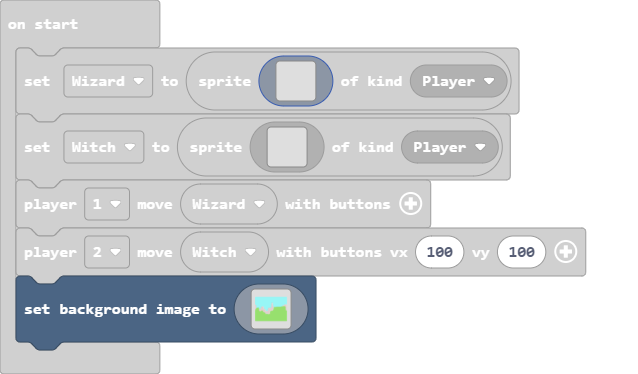
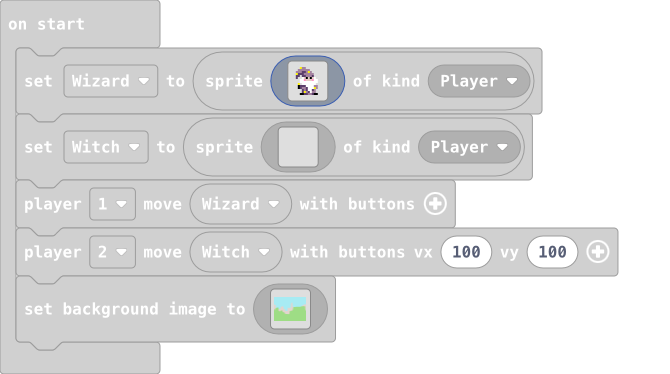
Update main.blocks, main.ts

diff --git a/main.ts b/main.ts
@@ -1,19 +1,19 @@
 let Wizard = sprites.create(img`
     . . . . . . . . . . . . . . . . 
-    . . . . . . . . . . . . . . . . 
-    . . . . . . . . . . . . . . . . 
-    . . . . . . . . . . . . . . . . 
-    . . . . . . . . . . . . . . . . 
-    . . . . . . . . . . . . . . . . 
-    . . . . . . . . . . . . . . . . 
-    . . . . . . . . . . . . . . . . 
-    . . . . . . . . . . . . . . . . 
-    . . . . . . . . . . . . . . . . 
-    . . . . . . . . . . . . . . . . 
-    . . . . . . . . . . . . . . . . 
-    . . . . . . . . . . . . . . . . 
-    . . . . . . . . . . . . . . . . 
-    . . . . . . . . . . . . . . . . 
+    . . . . 5 b b . . . . . . . . . 
+    . . . b b b b b b . . . . . . . 
+    . . b b b c c b 5 b . . . . . . 
+    . . 5 c c c b b b b b . . . . . 
+    . . c c . c c b b b c . . . . . 
+    . . c . . 1 d f d f d 1 . . . . 
+    . . . . 1 1 3 d d d 3 1 1 . . . 
+    . . . . 1 1 1 1 1 1 1 1 1 . . . 
+    . . . 5 . 1 1 1 1 1 1 1 . . . . 
+    . . . f c c c 1 1 1 1 b b . . . 
+    . . . f c b b c 1 1 1 5 b . . . 
+    . . . . . c b c 1 1 c b . . . . 
+    . . . . . c 5 b c 1 b b . . . . 
+    . . . . f f c c b b c f f . . . 
     . . . . . . . . . . . . . . . . 
     `, SpriteKind.Player)
 let Witch = sprites.create(img`
